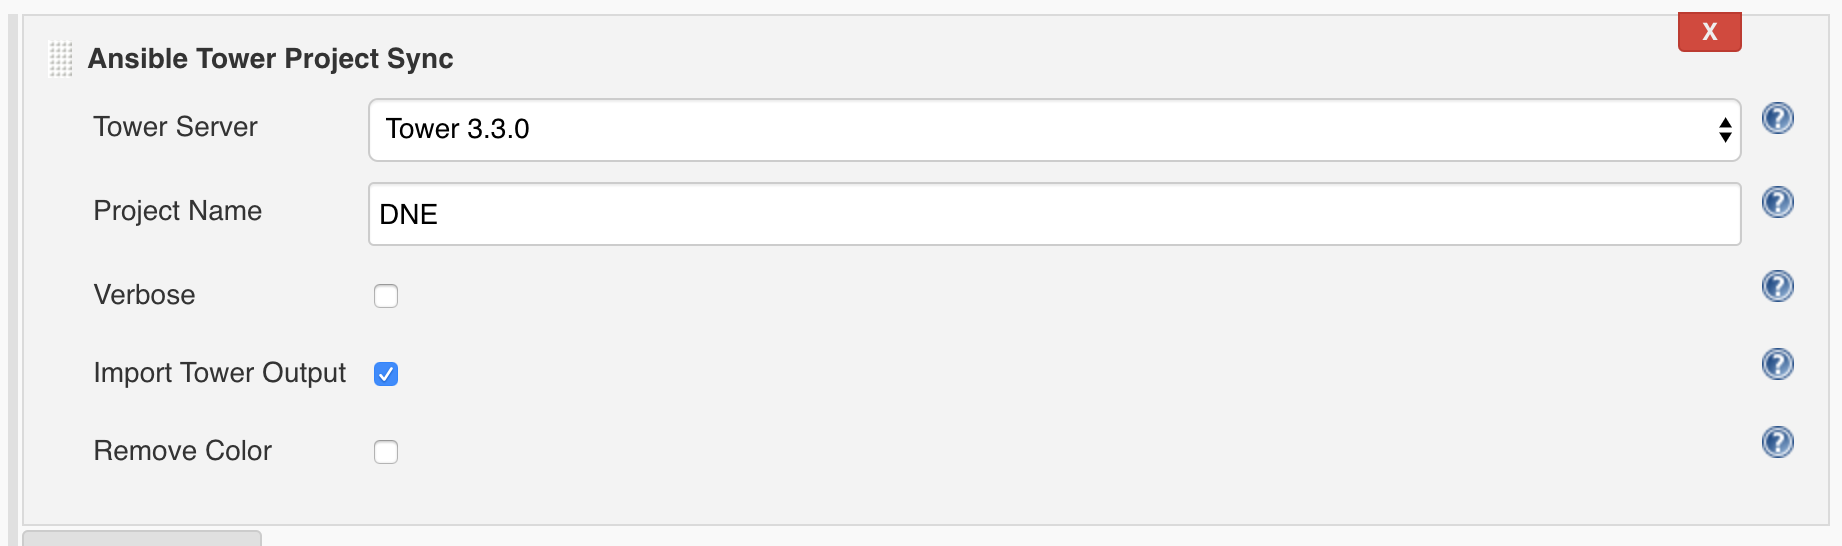
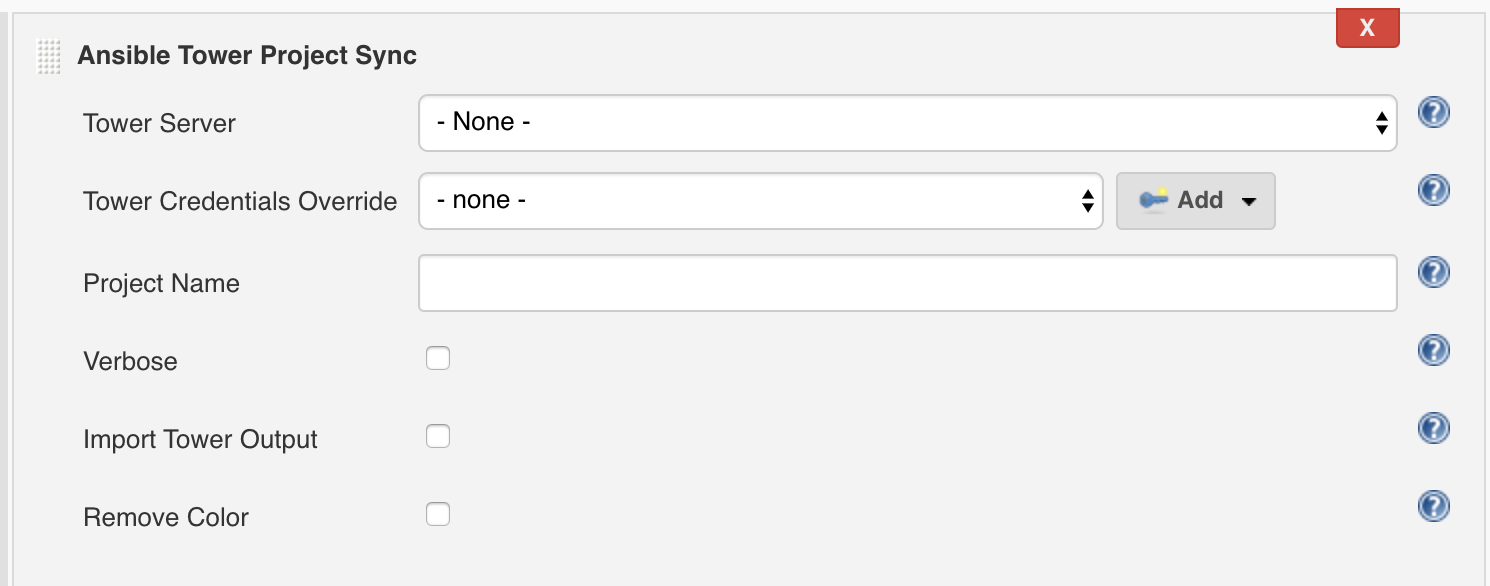
Updating images in readme

Changed region(s): [[0.0, 0.0, 1.0, 1.0], [0.3087, 0.5293, 0.9262, 0.5604], [0.0617, 0.467, 0.1852, 0.4982]]

diff --git a/README.md b/README.md
@@ -70,7 +70,7 @@ In a freestyle project a new build step called Ansible Tower is now available:
 | Field | Description |
 |-------|-------------|
 | Tower Server | The predefined Ansible Tower server to run the template on.|
-| Tower Credentials ID | Allows to overwrite the credentials from global Ansible Tower configuration|
+| Tower Credentials Override | Overrides the credentials from global Ansible Tower configuration.|
 | Template Type | Whether you are running a job or workflow template.|
 | Template ID | The name or numerical ID of the template to be run on the Ansible Tower server.|
 | Extra Vars | Additional variables to be passed to the job. I.e.:<br/>---<br/>my_var: This is a variable called my_var|
@@ -123,6 +123,7 @@ In a freestyle project a new build called Ansible Tower Project Sync is now avai
 | Field | Description |
 |-------|-------------|
 | Tower Server | The predefined Ansible Tower server to run the sync on. |
+| Tower Credentials Override | Overrides the credentials from global Ansible Tower configuration. |
 | Project Name | The name of the project to perform the SCM sync. |
 | Verbose | Add additional messages to the Jenkins console about the job run.|
 | Import Tower Output | Pull all of the logs from Ansible Tower into the Jenkins console.|
